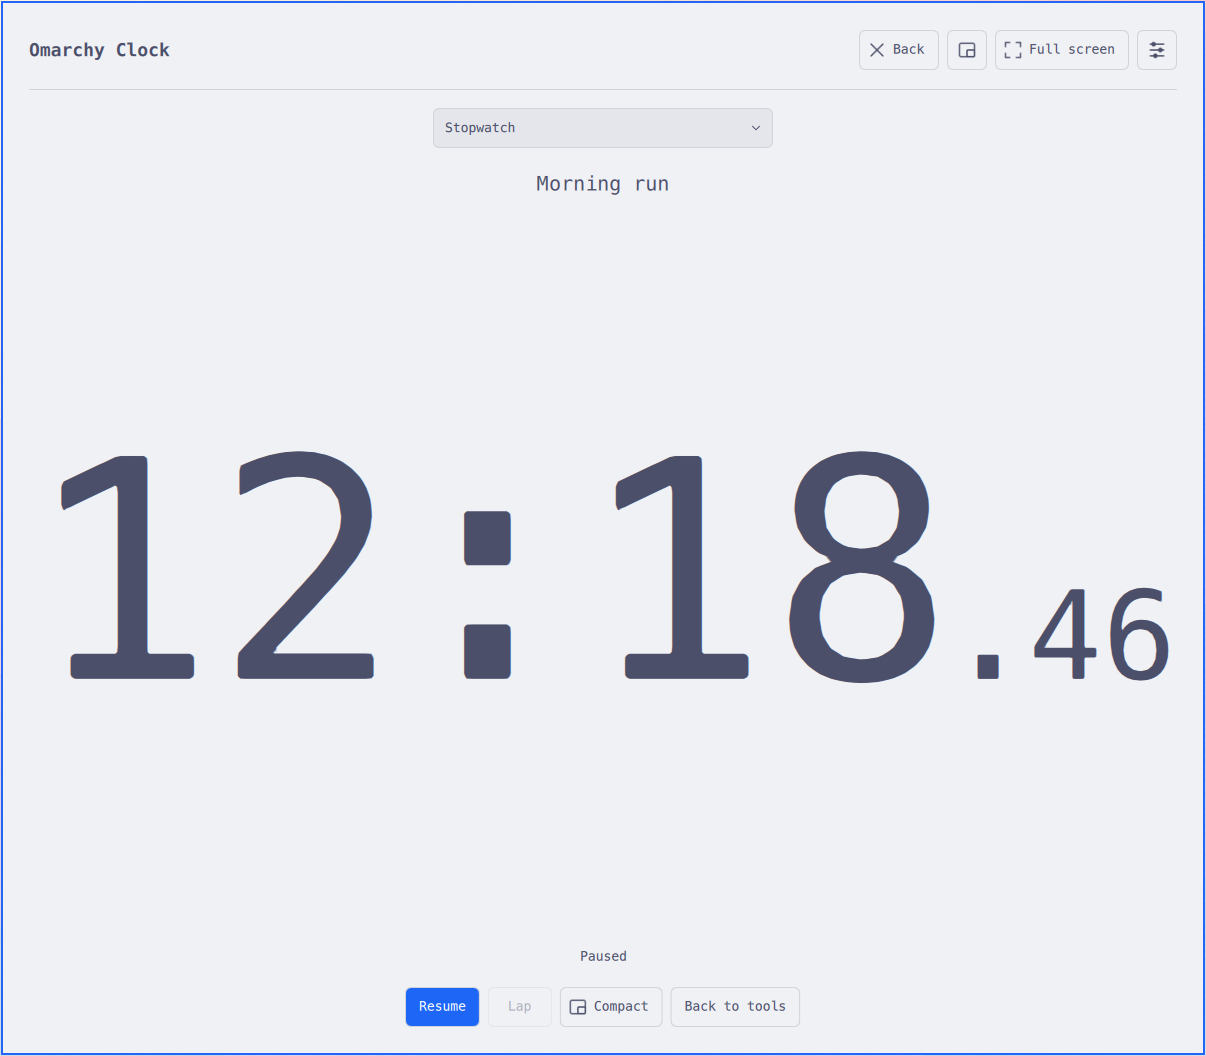
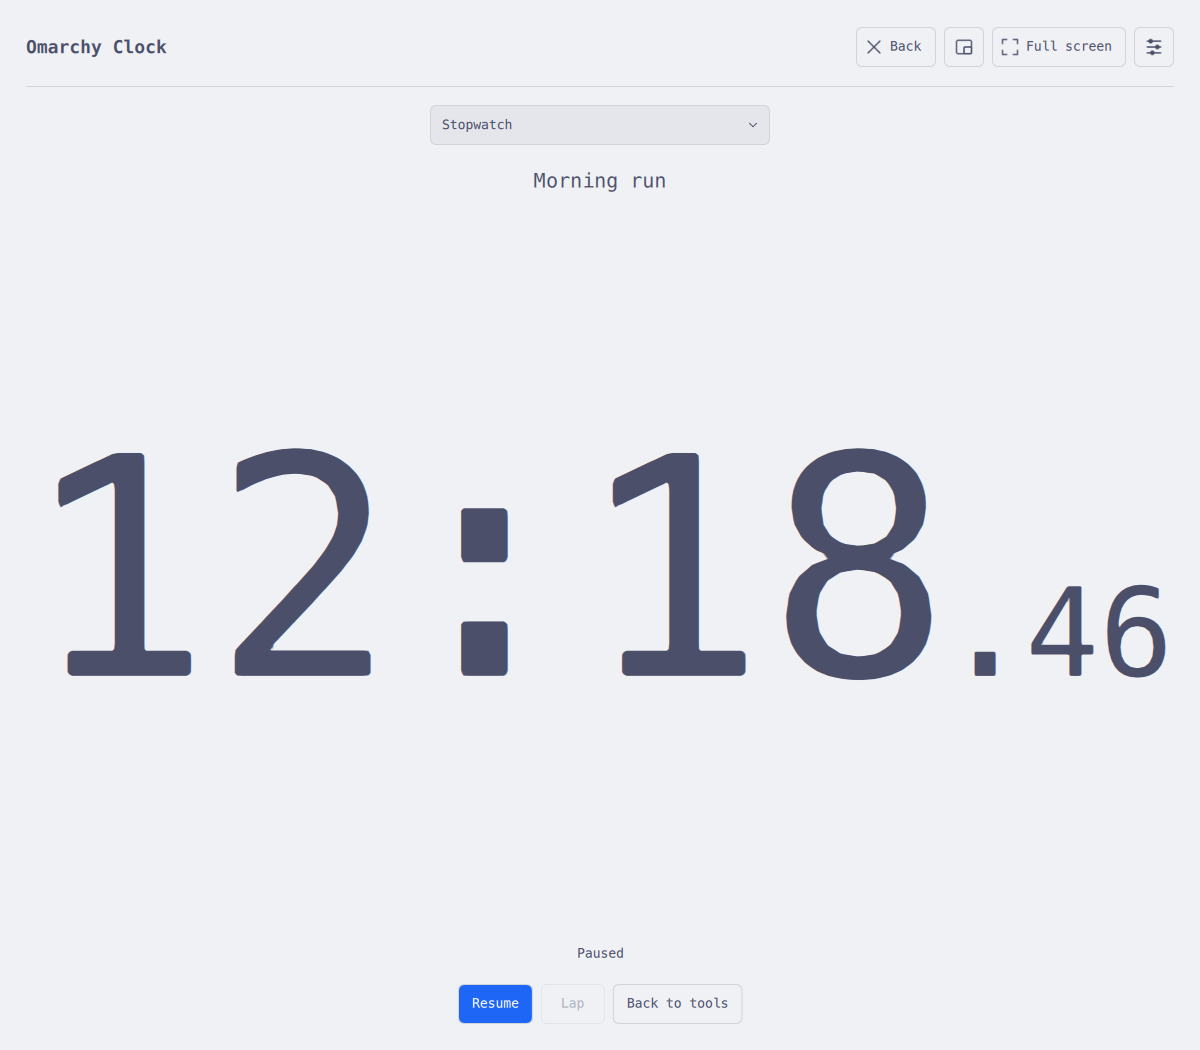
Remove redundant Compact action from Focus

diff --git a/ui/SettingsPage.qml b/ui/SettingsPage.qml
@@ -53,7 +53,7 @@ ScrollView {
         Text { text: "Your clocks and history are stored in a local SQLite database. There is no account, cloud sync, or network connection."; color: theme.colors.muted; font.pixelSize: 12; Layout.fillWidth: true; wrapMode: Text.WordWrap }
         Text { text: engine.storagePath; color: theme.colors.muted; font.family: theme.fontFamily; font.pixelSize: 11; Layout.fillWidth: true; wrapMode: Text.WrapAnywhere }
         Flow { Layout.fillWidth: true; spacing: 8; AppButton { text: "Open data folder"; onClicked: shell.openDataFolder() } AppButton { text: "Export all history"; onClicked: appWindow.exportHistory("", "") } AppButton { text: "Quit app"; onClicked: appWindow.requestQuit() } }
-        Text { text: "Omarchy Clock 2.1.3 · Qt Quick"; color: theme.colors.muted; font.pixelSize: 12 }
+        Text { text: "Omarchy Clock 2.1.4 · Qt Quick"; color: theme.colors.muted; font.pixelSize: 12 }
         Item { Layout.preferredHeight: 12 }
     }
 }

diff --git a/ui/FocusView.qml b/ui/FocusView.qml
@@ -45,7 +45,6 @@ Item {
             AppButton { visible: appWindow && appWindow.focusKind === "stopwatch"; text: "Lap"; enabled: !!focusView.live.running; onClicked: engine.lap() }
             AppButton { visible: appWindow && appWindow.focusKind === "timer"; text: "+1 min"; onClicked: engine.addTime(appWindow.focusId, 60) }
             AppButton { visible: appWindow && appWindow.focusKind === "interval"; text: "Skip phase"; enabled: !!focusView.live.running; onClicked: engine.skipInterval(appWindow.focusId) }
-            AppButton { text: "Compact"; iconName: "compact"; onClicked: appWindow.toggleCompact() }
             AppButton { text: "Back to tools"; onClicked: appWindow.focusMode = false }
         }
     }

diff --git a/install.py b/install.py
@@ -163,7 +163,7 @@ except Exception:
             path.unlink()
     subprocess.run(['hyprctl', 'reload'], check=False, capture_output=True)
     raise
-print('Installed Omarchy Clock 2.1.3:', target)
+print('Installed Omarchy Clock 2.1.4:', target)
 print('Backups:', backup_root)
 print('Show/hide:', 'Super+Ctrl+Alt+' + show_key.upper())
 print('Start/pause:', 'Super+Ctrl+Alt+' + pause_key.capitalize())

diff --git a/main.cpp b/main.cpp
@@ -22,7 +22,7 @@ int main(int argc, char **argv) {
   QApplication app(argc, argv);
   app.setApplicationName("Omarchy Clock");
   app.setOrganizationName("OmarchyClock");
-  app.setApplicationVersion("2.1.3");
+  app.setApplicationVersion("2.1.4");
   app.setDesktopFileName("omarchy-clock");
   app.setWindowIcon(QIcon(":/omarchy-clock.svg"));
   app.setQuitOnLastWindowClosed(false);

diff --git a/DESIGN.md b/DESIGN.md
@@ -207,7 +207,7 @@ At width (960px) and above, a (176px) navigation rail lists Today, Timers, Stopw
 
 Working pages and creation forms use clipped vertical ScrollViews whose content width follows available width. Actions use Flow where necessary; labels wrap or elide according to their role. Common page group spacing is (20px) to (26px). The desktop rail is navigation rather than a decorative container, and page sections are separated by whitespace and thin dividers.
 
-Focus replaces the page/rail composition with a centered clock selector (up to 340px), title, flexible time face, status/progress, and centered actions. Actions form one horizontal row when their intrinsic widths fit, wrap within the available width when narrow, and return to one row when widened; preserve the primary playback action first. Focus vertical spacing uses `control-gap` below height (340px), `row-gap` below (440px), and `focus-gap` otherwise. Its time face yields vertical space to controls, with minimum height (64px) below (340px) and (90px) otherwise. Fullscreen uses the same native window and header; F11 toggles it, and Escape returns to normal size or leaves Focus. Focus and fullscreen are independent states.
+Focus replaces the page/rail composition with a centered clock selector (up to 340px), title, flexible time face, status/progress, and centered actions. Actions form one horizontal row when their intrinsic widths fit, wrap within the available width when narrow, and return to one row when widened; preserve the primary playback action first. Compact display remains a shared header control, also available through Ctrl+Shift+M, without duplication in the Focus action row. Focus vertical spacing uses `control-gap` below height (340px), `row-gap` below (440px), and `focus-gap` otherwise. Its time face yields vertical space to controls, with minimum height (64px) below (340px) and (90px) otherwise. Fullscreen uses the same native window and header; F11 toggles it, and Escape returns to normal size or leaves Focus. Focus and fullscreen are independent states.
 
 The compact tool window opens at (360×240), with minimum (160×110), `compact-margin` and `control-gap`. It contains an elided clock title, draggable area, small close button, fitted time, and Start/Pause/Resume, optional Lap, and Open actions. Below width (280px) or height (190px), its slim mode uses (8px) margins, (4px) vertical gaps, a (26px) header, and (28px) action height. Playback and Open become named icon controls; Lap remains a short label. The time face flexes into the remaining space while preserving inline fractions.
 

diff --git a/docs/images/README.md b/docs/images/README.md
@@ -1,7 +1,8 @@
 # Screenshot provenance
 
-The original five images are native Wayland screenshots of Omarchy Clock 2.1.2, captured with `grim` on 2026-10-12. `focus-intervals.png` is a native 2560×1440 fullscreen capture from version 2.1.3, using the app’s `--capture --demo --focus interval --fullscreen` mode on the same date. The app was isolated on an otherwise empty workspace. Windowed captures include only the app’s bounds and border; the fullscreen capture includes only the app, excluding the desktop bar, other applications, notifications, cursor, and wallpaper.
+All screenshots were captured from the native app alone on an otherwise empty Omarchy workspace on 2026-10-12, using the Catppuccin Latte theme and temporary in-memory sample activity. No personal history or user database was used. The world clocks show live time.
 
-The current Omarchy theme was Catppuccin Latte. Timer, stopwatch, and activity values come from the temporary in-memory demo fixture (`--test-bar`), not the user database. The world clocks show live time. `stopwatch.png` shows Focus mode; `compact-small.png` shows the 160×110 minimum. The other main windows were 1200×1050. Borders add six pixels to each capture's dimensions.
+- `timers.png`, `world-clocks.png`, `compact.png`, and `compact-small.png` were captured from version 2.1.2 with `grim`. Window bounds and their border were included; the border adds six pixels to each dimension. The main windows were 1200×1050, and the compact windows were 360×240 and 160×110.
+- `focus-intervals.png` and `stopwatch.png` were refreshed from version 2.1.4 using the app's native Wayland `--capture --demo --focus` mode. They show fullscreen interval Focus at 2560×1440 and stopwatch Focus at 1200×1050. These captures include only the app content, with no window border.
 
-The screenshots are included under the repository's MIT license. PNG provenance metadata records the capture origin. No personal screenshots, runtime data, or desktop review captures are included.
+The desktop bar, other applications, notifications, cursor, and wallpaper are excluded. The screenshots are included under the repository's MIT license; PNG metadata records their capture origin. Private review captures and runtime data are excluded from the repository.

diff --git a/README.md b/README.md
@@ -1,4 +1,4 @@
-# Omarchy Clock 2.1.3
+# Omarchy Clock 2.1.4
 
 A native Qt Quick timekeeping app for Omarchy. It follows the current Omarchy colors and font, runs locally, and keeps clocks active while its window is hidden in the tray.
 
